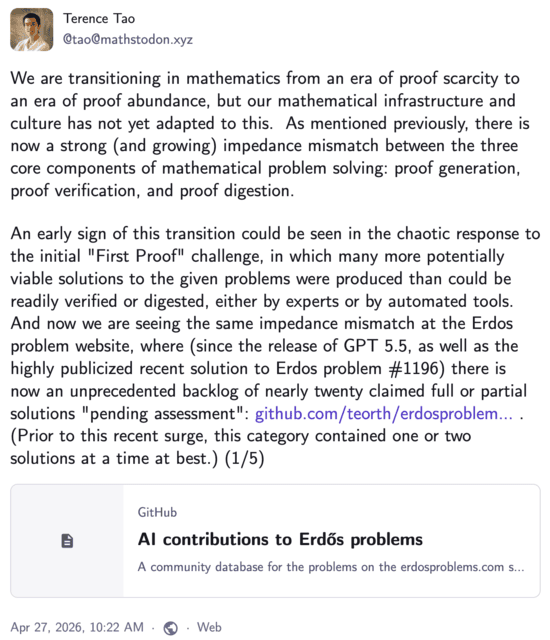
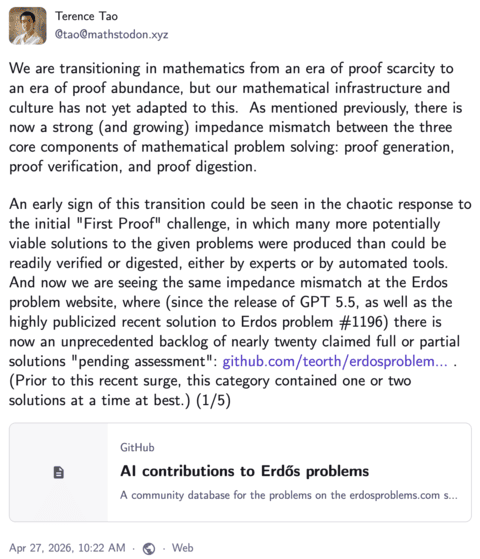
Resize images

diff --git a/posts/math-openai-timeline.md b/posts/math-openai-timeline.md
@@ -232,6 +232,18 @@ He was as "on board" as you could ask anyone to be. Albeit he seems less happy i
 
 Tao points out the pitfalls as we have optimized some of the process but not others. He explains this as proof digestion. We were generating proofs without integrating them into our understanding. Most of this increased output was **not advancing Math**.
 
+> Perhaps surprisingly, this massive acceleration in proof generation has not actually produced significant acceleration in mathematical progress itself \[...]
+>
+> Just as modern societies no longer consider raw food ingredients as constituting a meal, I predict that mathematical research culture will cease considering "raw", "undigested" proofs as constituting a solution to a problem, and focus more on how the field as a whole, as opposed to just the problem itself, is enriched by the contribution.
+> 
+> Tao, [April 2026 Thread](https://mathstodon.xyz/@tao/116477351524980995)
+
+> I have recently made the point that out of three major components of the mathematical problem solving process - proof generation, proof verification, and proof digestion - the first two are being automated far more successfully than the third, leading to a new experience of "proof indigestion" in which proofs are being generated and even verified without being digested.
+>
+>It has been proposed that the solution to this is simply to automate the third component as well - for instance by training AI to write mathematical proofs at a higher level of exposition.  This will help to some extent, especially as AI capabilities continue to improve; but blindly optimizing various metrics for "digestibility", such as rubrics for mathematical exposition, can make the final product *worse* when viewed holistically.
+>
+> -- Tao, [May 2026 Thread](https://mathstodon.xyz/@tao/116551624228986501)
+
 This would have been a perfect signal for the model labs to pick up on, if they wanted to address the actual needs.
 
 ![Terence Tao post on the transition in proof generation](/images/posts/math-openai-timeline/2026-04-tao-proof-transition-post.png)
@@ -246,7 +258,7 @@ This would have been a perfect signal for the model labs to pick up on, if they 
 
 ![Anthropic: Formalizing Fermat's Last Theorem](/images/posts/math-openai-timeline/2026-09-anthropic-fermats-last-theorem.png)
 
-Anthropic announces [Formalizing Fermat's Last Theorem](https://www.anthropic.com/research/formalizing-fermats-last-theorem), reconstructing the 1993 Andrew Wiles proof in 13 million lines of Lean code.
+Anthropic announces [Formalizing Fermat's Last Theorem](https://www.anthropic.com/research/formalizing-fermats-last-theorem), reconstructing the 1995 Andrew Wiles proof in 13 million lines of Lean code.
 
 This is impressive but not categorically different from what had already been achieved. It's the last of the [top 100 of mathematical theorems](https://www.cs.ru.nl/~freek/100/) to be formalized in a prover. The other 99 had already been done by 2024 with people and provers, without LLMs. However FLT was undoubtedly the hardest, and this accelerates the process.
 
